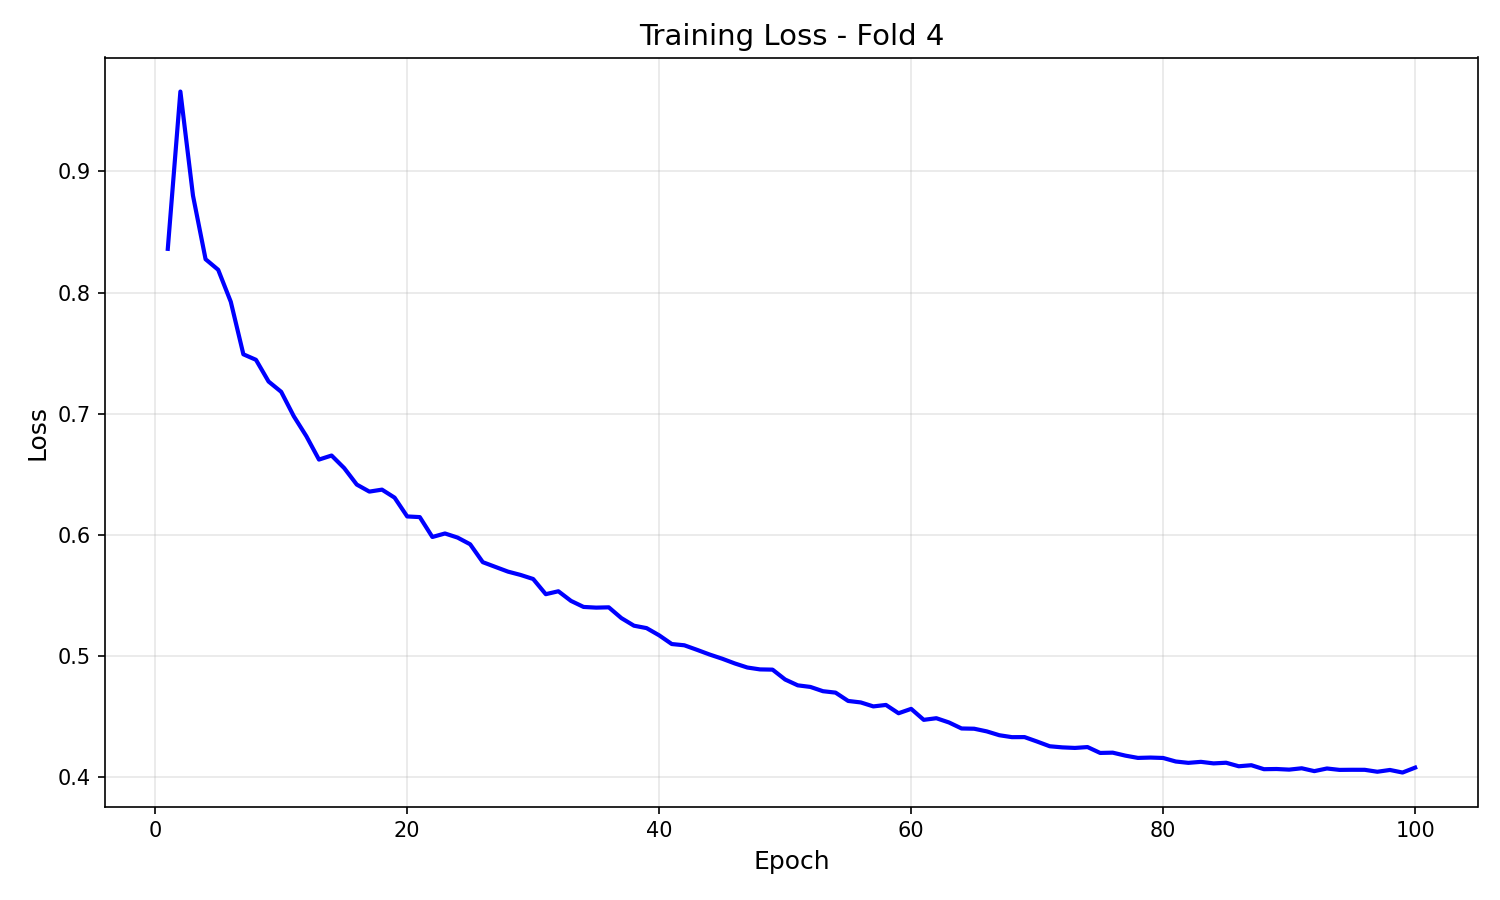
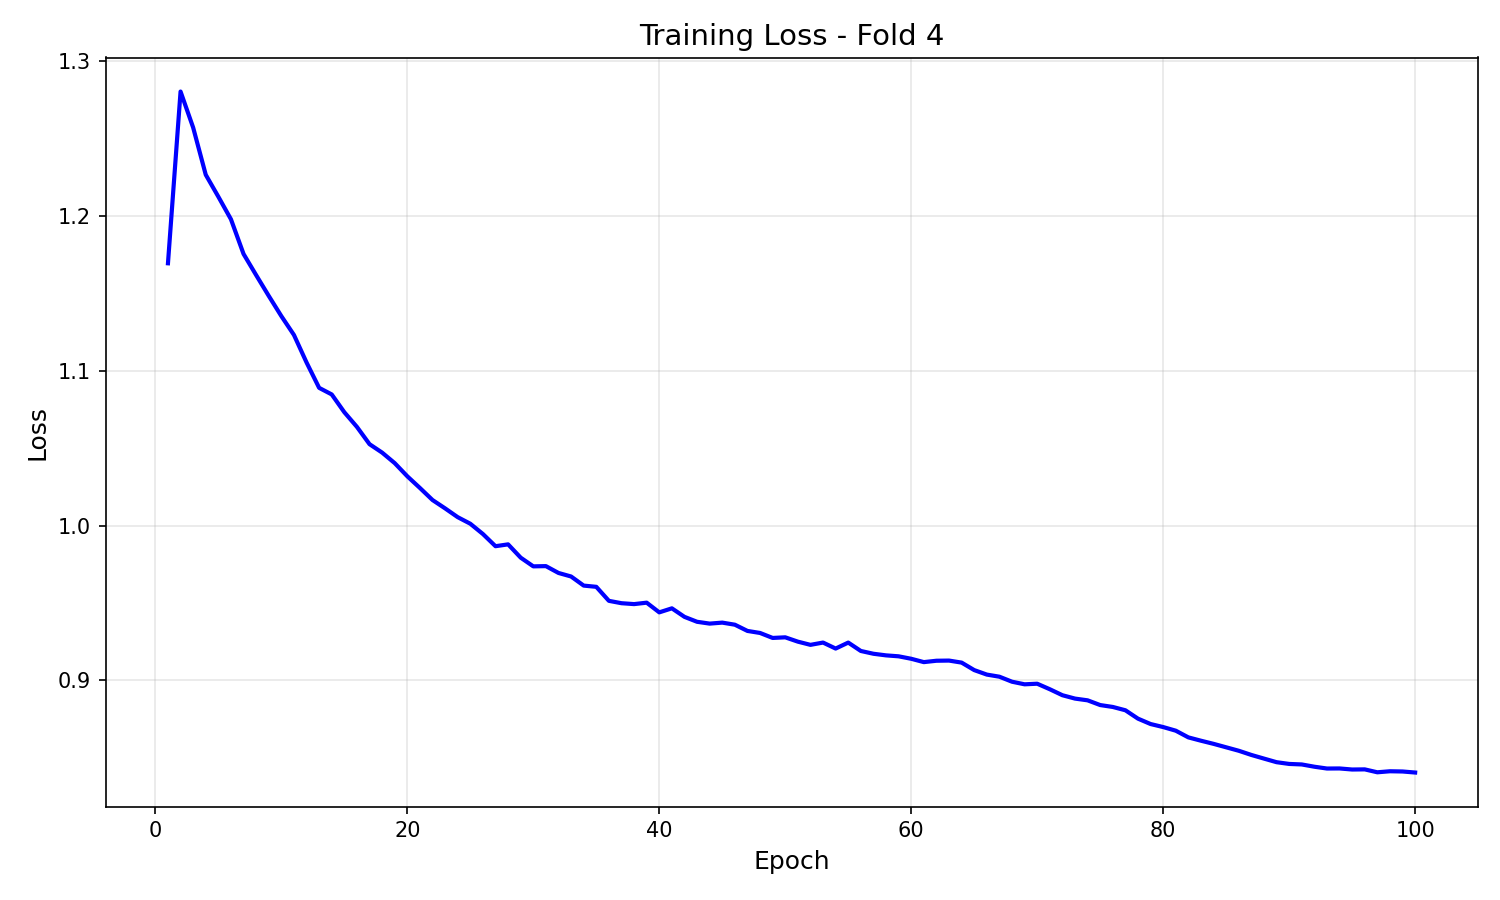
Regularization experiment: Full S&P 500 + increased dropout/weight decay
- Expanded dataset from 50 to 496 stocks (full S&P 500)
- Increased weight_decay from 1e-4 to 1e-2
- Increased dropout from 0.1 to 0.4
- Added cross-sectional mean subtraction to Returns feature
- Results: Train loss 0.77-1.12, Val loss 2.76±0.44 (gap persists ~3.3x)

diff --git a/data_ingest.py b/data_ingest.py
@@ -120,6 +120,9 @@ def process_ticker_data(ticker, is_macro=False):
         return None
 
 def main():
+    if os.path.exists(PROCESSED_DIR):
+        import shutil
+        shutil.rmtree(PROCESSED_DIR)
     os.makedirs(PROCESSED_DIR, exist_ok=True)
     
     # 1. Fetch Macro Data
@@ -138,12 +141,19 @@ def main():
     
     stock_data = {}
     
+    MAX_HISTORY = 1000  # Require ~4 years of data to avoid recent IPOs truncating common range
+    
     # For PoC, limit to first 50 to save time/bandwidth, remove slice [:] for full run
-    for ticker in tickers[:50]: 
+    for ticker in tickers: 
         df = process_ticker_data(ticker, is_macro=False)
-        if df is not None and len(df) > 200:  # Ensure enough history
-            stock_data[ticker] = df
-            print(f"Processed {ticker} - {len(df)} rows")
+        if df is not None:
+            if len(df) > MAX_HISTORY:
+                stock_data[ticker] = df
+                if len(stock_data) % 50 == 0:
+                    print(f"Processed {ticker} - {len(df)} rows")
+            else:
+                # print(f"Skipping {ticker}: Insufficient history ({len(df)} < {MAX_HISTORY})")
+                pass
     
     # 3. CRITICAL: Align all dataframes to common date index
     # Different tickers have different histories (VIX needs 200 days for MA_200)
@@ -167,15 +177,37 @@ def main():
     if len(common_index) < 200:
         print("WARNING: Common date range is very short. Consider using fewer macro indicators or longer history.")
     
+    # 3.5 Cross-Sectional Mean Subtraction (Market Neutrality)
+    print("\nApplying Cross-Sectional Mean Subtraction to Returns...")
+    # Create temporary DataFrame of just returns aligned to common index
+    clean_stock_data = {}
+    for ticker, df in stock_data.items():
+        clean_stock_data[ticker] = df.loc[common_index]
+    
+    # Extract returns matrix [Time, Stocks]
+    returns_matrix = pd.DataFrame({
+        ticker: df['Returns'] 
+        for ticker, df in clean_stock_data.items()
+    })
+    
+    # Calculate cross-sectional mean (market return proxy)
+    market_return = returns_matrix.mean(axis=1)
+    
+    # Subtract market return from each stock
+    for ticker in clean_stock_data:
+        clean_stock_data[ticker]['Returns'] -= market_return
+        
+    print("Returns are now market-neutral (cross-sectional mean subtracted).")
+    
     # 4. Align and save all data
     for name, df in macro_data.items():
         aligned_df = df.loc[common_index]
         aligned_df.to_csv(f"{PROCESSED_DIR}/macro_{name}.csv")
     
     valid_stocks = []
-    for ticker, df in stock_data.items():
-        aligned_df = df.loc[common_index]
-        aligned_df.to_csv(f"{PROCESSED_DIR}/stock_{ticker}.csv")
+    for ticker, df in clean_stock_data.items():
+        # df is already aligned and demeaned
+        df.to_csv(f"{PROCESSED_DIR}/stock_{ticker}.csv")
         valid_stocks.append(ticker)
     
     # Save common index for reference

diff --git a/train.py b/train.py
@@ -345,13 +345,15 @@ def save_backtest_summary(all_fold_results: List[Dict], output_dir: str, dates=N
     print(f"\nSaved backtest summary: {filepath}")
 
 
-def main(use_real_data: bool = False):
+def main(use_real_data: bool = False, start_fold: int = 1, end_fold: Optional[int] = None):
     """
     Training loop with optional real data support.
     
     Args:
         use_real_data: If True, load data from ./data/processed/
                        If False, use synthetic random data
+        start_fold: First fold to run (1-based index)
+        end_fold: Last fold to run (1-based index, inclusive). If None, run all.
     """
     # Hyperparameters
     STOCK_DIM = 8  # ['Close', 'High', 'Low', 'Log_Vol', 'RSI_14', 'MACD', 'Volatility_5', 'Returns']
@@ -360,7 +362,7 @@ def main(use_real_data: bool = False):
     WINDOW_SIZE = 60
     NUM_EPOCHS = 100
     LR = 1e-3
-    WEIGHT_DECAY = 1e-4
+    WEIGHT_DECAY = 1e-2  # Stronger regularization
     
     # Walk-forward parameters (only used with real data)
     TRAIN_SIZE = 200  # ~10 months
@@ -423,8 +425,8 @@ def main(use_real_data: bool = False):
         mp_layers=2,
         heads=4,
         top_k=min(10, NUM_STOCKS - 1),  # Ensure top_k < num_stocks
-        dropout=0.1,
-        mc_dropout=0.3
+        dropout=0.4,
+        mc_dropout=0.4
     ).to(device)
     
     # Loss
@@ -438,6 +440,14 @@ def main(use_real_data: bool = False):
     all_fold_results = []
     
     for fold_idx, (train_data, val_data) in enumerate(folds):
+        current_fold_num = fold_idx + 1
+        
+        # Skip folds outside requested range
+        if current_fold_num < start_fold:
+            continue
+        if end_fold is not None and current_fold_num > end_fold:
+            break
+            
         print(f"\n{'='*60}")
         print(f"FOLD {fold_idx + 1}/{len(folds)}")
         print(f"{'='*60}")
@@ -541,6 +551,23 @@ if __name__ == "__main__":
         help="Use real market data from ./data/processed/ instead of synthetic data"
     )
     
+    parser.add_argument(
+        "--start-fold",
+        type=int,
+        default=1,
+        help="Start fold index (1-based, default: 1)"
+    )
+    parser.add_argument(
+        "--end-fold",
+        type=int,
+        default=None,
+        help="End fold index (1-based, inclusive, default: All)"
+    )
+    
     args = parser.parse_args()
-    main(use_real_data=args.real_data)
+    main(
+        use_real_data=args.real_data,
+        start_fold=args.start_fold,
+        end_fold=args.end_fold
+    )
 
